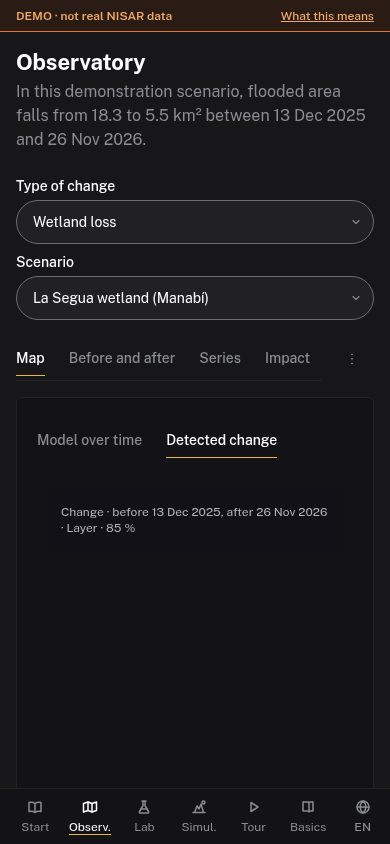
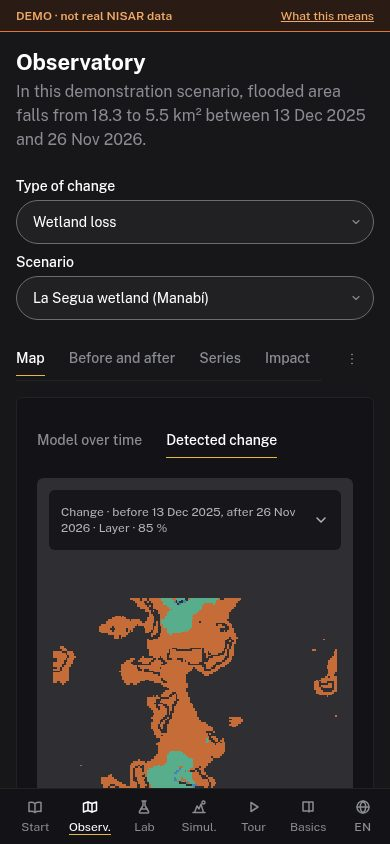
fix(frontend): arreglos de la revisión del bloque visual y móvil

Changed region(s): [[0.0923, 0.5545, 0.9231, 0.955]]

diff --git a/frontend/src/pantallas/observatorio/VistaMapa.tsx b/frontend/src/pantallas/observatorio/VistaMapa.tsx
@@ -8,6 +8,7 @@ import { useMovil } from '../../estado/useMovil'
 import { mensajeDeError } from '../../api/cliente'
 import { useCapa, useFotogramas, useSimular, type CapaDto, type Contexto, type Escenario, type ResultadoCambio } from '../../api/consultas'
 import { Boton } from '../../diseno/Boton'
+import { IconoChevron } from '../../diseno/iconos'
 import { Cargando, ErrorBloque, Vacio } from '../../diseno/Estados'
 import { Leyenda } from '../../diseno/Leyenda'
 import { Pestanas } from '../../diseno/Pestanas'
@@ -176,8 +177,9 @@ export function VistaMapa({ esc, resultado, tiempo, contexto, antesId, despuesId
             <div className="vista-mapa__arriba">
               {movil ? (
                 <div className="vista-mapa__placa">
-                  <button type="button" className="vista-mapa__plegar vista-mapa__placa-boton num" aria-expanded={placaAbierta} aria-controls={idPlaca} onClick={() => setPlacaAbierta((a) => !a)}>
-                    {capa && rotulo ? t('obs.mapa.resumen_capa', { rotulo, pct: Math.round(opacidad * 100) }) : t('obs.mapa.resumen_capa_sola', { pct: Math.round(opacidad * 100) })}
+                  <button type="button" className="vista-mapa__plegar vista-mapa__placa-boton num" aria-expanded={placaAbierta} aria-controls={placaAbierta ? idPlaca : undefined} onClick={() => setPlacaAbierta((a) => !a)}>
+                    <span>{capa && rotulo ? t('obs.mapa.resumen_capa', { rotulo, pct: Math.round(opacidad * 100) }) : t('obs.mapa.resumen_capa_sola', { pct: Math.round(opacidad * 100) })}</span>
+                    <span className="vista-mapa__placa-chevron"><IconoChevron /></span>
                   </button>
                   {placaAbierta && (
                     <div id={idPlaca}>

diff --git a/frontend/src/pantallas/simulador/PanelMundo.tsx b/frontend/src/pantallas/simulador/PanelMundo.tsx
@@ -1,4 +1,3 @@
-import { useEffect, useState } from 'react'
 import type { Catalogo } from '../../api/simulador'
 import { Boton } from '../../diseno/Boton'
 import { Campo } from '../../diseno/Campo'
@@ -7,25 +6,23 @@ import { Selector } from '../../diseno/Selector'
 import { clavesApi } from '../../idioma/clavesApi'
 import { TextoApi } from '../../idioma/TextoApi'
 import { useT } from '../../idioma/useT'
-import type { EstadoSimulador } from './estadoSimulador'
+import { PROPIO, type BorradorMundo, type BorradorMundoEstado } from './useBorradorMundo'
 
-export type BorradorMundo = Pick<EstadoSimulador, 'lat' | 'lon' | 'ext' | 'fecha' | 'dem'>
-const PROPIO = '__propio__'
+export type { BorradorMundo }
 
 interface Props {
   catalogo: Catalogo
-  actual: BorradorMundo
+  /** Borrador y preset, elevados a `Simulador`. */
+  borrador: BorradorMundoEstado
   cargando: boolean
   /** Crea el mundo con el borrador; `herramienta` viene de un mundo predefinido. */
   onCrear: (b: BorradorMundo, herramienta?: string) => void
 }
 
 /** Elección del lugar y de la fecha (temporada); el mundo solo se crea al pulsar el botón. */
-export function PanelMundo({ catalogo, actual, cargando, onCrear }: Props) {
+export function PanelMundo({ catalogo, borrador, cargando, onCrear }: Props) {
   const { t, textoApi } = useT()
-  const [b, setB] = useState<BorradorMundo>(actual)
-  const [preset, setPreset] = useState(() => catalogo.mundos.find((m) => m.lat === actual.lat && m.lon === actual.lon)?.nombre ?? PROPIO)
-  useEffect(() => { setB(actual) }, [actual])
+  const { b, setB, preset, setPreset } = borrador
 
   const elegirPreset = (nombre: string) => {
     setPreset(nombre)

diff --git a/frontend/src/pantallas/simulador/Simulador.tsx b/frontend/src/pantallas/simulador/Simulador.tsx
@@ -21,6 +21,7 @@ import { escribirEstado, leerEstado, sanearParametros, type EstadoSimulador, typ
 import { PanelHerramienta } from './PanelHerramienta'
 import { valoresIniciales } from './valores'
 import { PanelMundo, type BorradorMundo } from './PanelMundo'
+import { useBorradorMundo } from './useBorradorMundo'
 import { Tablero } from './Tablero'
 import { ResultadosEvento } from './ResultadosEvento'
 import { clavesApi } from '../../idioma/clavesApi'
@@ -40,6 +41,8 @@ export default function Simulador() {
     lat: estado.lat, lon: estado.lon, extension_km: estado.ext, fecha: estado.fecha, usar_dem: estado.dem, ciudades: estado.ciudades,
   }), [estado.lat, estado.lon, estado.ext, estado.fecha, estado.dem, estado.ciudades])
   const mundo = useMundo(mundoReq)
+  const actualMundo = useMemo(() => ({ lat: estado.lat, lon: estado.lon, ext: estado.ext, fecha: estado.fecha, dem: estado.dem }), [estado.lat, estado.lon, estado.ext, estado.fecha, estado.dem])
+  const borrador = useBorradorMundo(cat, actualMundo)
 
   const actualizar = (parcial: Partial<EstadoSimulador>, reemplazar = true) =>
     setParams(escribirEstado({ ...estado, ...parcial }), { replace: reemplazar })
@@ -96,7 +99,7 @@ export default function Simulador() {
   const tarjetaMundo = cat && (
     <Tarjeta titulo={t('sim.pantalla.mundo')}>
       <PanelMundo catalogo={cat} cargando={mundo.isFetching} onCrear={crear}
-        actual={{ lat: estado.lat, lon: estado.lon, ext: estado.ext, fecha: estado.fecha, dem: estado.dem }} />
+        borrador={borrador} />
     </Tarjeta>
   )
   return (

diff --git a/frontend/src/pantallas/simulador/simulador-movil.test.tsx b/frontend/src/pantallas/simulador/simulador-movil.test.tsx
@@ -1,5 +1,5 @@
 import { QueryClient, QueryClientProvider } from '@tanstack/react-query'
-import { render, screen } from '@testing-library/react'
+import { act, fireEvent, render, screen } from '@testing-library/react'
 import { MemoryRouter } from 'react-router-dom'
 import { afterEach, describe, expect, it, vi } from 'vitest'
 import type { Catalogo, Herramienta } from '../../api/simulador'
@@ -47,5 +47,21 @@ describe('Simulador · orden en móvil', () => {
     montar()
     const { mundo, tablero } = posicion()
     expect(tablero.compareDocumentPosition(mundo) & Node.DOCUMENT_POSITION_FOLLOWING).toBeTruthy()
+  })
+})
+
+describe('Simulador · borrador del mundo', () => {
+  it('al cruzar 700 px (cambia el orden y se remonta PanelMundo) el borrador sobrevive', () => {
+    const oyentes = new Set<() => void>()
+    let movil = false
+    vi.stubGlobal('matchMedia', (q: string) => ({
+      get matches() { return movil }, media: q,
+      addEventListener: (_: string, f: () => void) => oyentes.add(f), removeEventListener: (_: string, f: () => void) => oyentes.delete(f),
+    }))
+    montar()
+    fireEvent.change(screen.getByLabelText('Latitud'), { target: { value: '-1.23' } })
+    expect(screen.getByLabelText('Latitud')).toHaveValue(-1.23)
+    act(() => { movil = true; oyentes.forEach((f) => f()) })
+    expect(screen.getByLabelText('Latitud')).toHaveValue(-1.23)
   })
 })

diff --git a/frontend/src/pantallas/simulador/simulador-idioma.test.tsx b/frontend/src/pantallas/simulador/simulador-idioma.test.tsx
@@ -13,6 +13,7 @@ import { PanelHerramienta } from './PanelHerramienta'
 import { PanelMundo } from './PanelMundo'
 import { ResultadosEvento } from './ResultadosEvento'
 import { Tablero } from './Tablero'
+import { useBorradorMundo } from './useBorradorMundo'
 import { valoresIniciales } from './valores'
 import { traductor } from '../../idioma/traductor'
 
@@ -38,6 +39,12 @@ const CATALOGO = {
 
 const MUNDO_MARCAS = { ...MUNDO, marcas: [{ x: 0.2, y: 0.5, texto: 'Loja', tipo: 'ciudad' }, { x: 0.8, y: 0.2, texto: 'Cotopaxi', tipo: 'volcan' }] } as unknown as MundoDto
 
+const ACTUAL_MUNDO = { lat: -4.05, lon: -79.25, ext: 30, fecha: '2026-08-15', dem: true }
+function ConBorrador() {
+  const borrador = useBorradorMundo(CATALOGO, ACTUAL_MUNDO)
+  return <PanelMundo catalogo={CATALOGO} cargando={false} onCrear={() => {}} borrador={borrador} />
+}
+
 beforeEach(() => localStorage.clear())
 
 describe('simulador · idioma', () => {
@@ -53,7 +60,7 @@ describe('simulador · idioma', () => {
 
   it('el panel del mundo no deja texto sin traducir', () => {
     const { container } = renderPseudo(
-      <PanelMundo catalogo={CATALOGO} cargando={false} onCrear={() => {}} actual={{ lat: -4.05, lon: -79.25, ext: 30, fecha: '2026-08-15', dem: true }} />,
+      <ConBorrador />,
     )
     expect(textosSinTraducir(container)).toEqual([])
   })

diff --git a/frontend/src/diseno/MenuAcciones.tsx b/frontend/src/diseno/MenuAcciones.tsx
@@ -5,7 +5,6 @@ export interface AccionMenu {
   id: string
   texto: string
   alElegir: () => void
-  presionada?: boolean
 }
 
 interface Props {
@@ -27,11 +26,11 @@ export function MenuAcciones({ etiqueta, acciones }: Props) {
   useEffect(() => {
     if (!abierto) return
     lista.current?.querySelector<HTMLElement>('[role="menuitem"]')?.focus()
-    const fuera = (e: MouseEvent) => {
+    const fuera = (e: PointerEvent) => {
       if (raiz.current && !raiz.current.contains(e.target as Node)) setAbierto(false)
     }
-    document.addEventListener('mousedown', fuera)
-    return () => document.removeEventListener('mousedown', fuera)
+    document.addEventListener('pointerdown', fuera)
+    return () => document.removeEventListener('pointerdown', fuera)
   }, [abierto])
 
   const alTeclear = (e: KeyboardEvent) => {
@@ -78,7 +77,6 @@ export function MenuAcciones({ etiqueta, acciones }: Props) {
               type="button"
               role="menuitem"
               className="menu-acciones__item"
-              aria-pressed={a.presionada}
               onClick={() => elegir(a)}
             >
               {a.texto}

diff --git a/frontend/src/pantallas/observatorio/panel.test.tsx b/frontend/src/pantallas/observatorio/panel.test.tsx
@@ -230,6 +230,20 @@ describe('PanelSimulacion', () => {
     expect(screen.getByRole('menuitem', { name: 'Ver el escenario' })).toBeInTheDocument()
   })
 
+  it('sin capacidad de simulación el menú no ofrece «Parámetros del modelo»', async () => {
+    movilSim()
+    montar('/observatorio?escenario=ec_x')
+    await screen.findByText(/Cinta de pasadas/)
+    fireEvent.click(await screen.findByRole('button', { name: 'Más acciones' }))
+    expect(screen.getByRole('menuitem', { name: 'Parámetros del modelo' })).toBeInTheDocument()
+    cleanup()
+    montar('/observatorio?escenario=ec_real')
+    await screen.findByText(/Cinta de pasadas/)
+    fireEvent.click(await screen.findByRole('button', { name: 'Más acciones' }))
+    expect(screen.queryByRole('menuitem', { name: 'Parámetros del modelo' })).not.toBeInTheDocument()
+    expect(screen.getByRole('menuitem', { name: 'Ver todo Ecuador' })).not.toHaveAttribute('aria-pressed')
+  })
+
   it('en escritorio no hay menú y los botones siguen en la barra del mapa', async () => {
     montar('/observatorio?escenario=ec_x')
     await screen.findByText(/Cinta de pasadas/)

diff --git a/frontend/src/pantallas/observatorio/observatorio.css b/frontend/src/pantallas/observatorio/observatorio.css
@@ -61,7 +61,9 @@
   .vista-mapa__arriba { flex-direction: column; align-items: stretch; }
   .vista-mapa__capa { max-width: 100%; }
   .vista-mapa__placa { padding: var(--space-2) var(--space-3); display: flex; flex-direction: column; gap: var(--space-2); color: var(--secondary); font-size: var(--fs-12); line-height: var(--lh-16); }
-  .vista-mapa__placa-boton { text-align: left; text-decoration: none; color: inherit; min-height: var(--h-touch); }
+  .vista-mapa__placa-boton { display: flex; justify-content: space-between; align-items: center; gap: var(--space-2); width: 100%; text-align: left; text-decoration: none; color: inherit; min-height: var(--h-touch); }
+  .vista-mapa__placa-chevron { flex: none; display: inline-flex; transition: transform var(--t-respuesta) ease-out; }
+  .vista-mapa__placa-boton[aria-expanded="true"] .vista-mapa__placa-chevron { transform: rotate(180deg); }
   .vista-mapa__placa .controles-mapa { width: 100%; padding: 0; background: none; }
   .vista-mapa__leyenda { margin-bottom: var(--space-8); }
 }

diff --git a/frontend/src/diseno/componentes.css b/frontend/src/diseno/componentes.css
@@ -338,7 +338,7 @@ html { scroll-padding-top: var(--h-banda); scroll-padding-bottom: var(--space-4)
 .menu-acciones__boton { min-height: var(--h-touch); min-width: var(--h-touch); }
 .menu-acciones__lista {
   position: absolute; right: 0; top: 100%; margin-top: var(--space-1); z-index: 20;
-  min-width: var(--w-panel-idioma); display: flex; flex-direction: column;
+  min-width: var(--w-menu-acciones); display: flex; flex-direction: column;
   background: var(--raised); border: 1px solid var(--control); border-radius: var(--radius-card);
   box-shadow: var(--shadow-float); padding: var(--space-1);
 }
@@ -347,4 +347,4 @@ html { scroll-padding-top: var(--h-banda); scroll-padding-bottom: var(--space-4)
   font: inherit; font-size: var(--fs-14); color: var(--text); background: transparent; border: 0;
   border-radius: var(--radius-chip); cursor: pointer;
 }
-.menu-acciones__item:hover, .menu-acciones__item[aria-pressed="true"] { background: var(--control); }
+.menu-acciones__item:hover { background: var(--control); }

diff --git a/frontend/src/pantallas/observatorio/observatorio.test.tsx b/frontend/src/pantallas/observatorio/observatorio.test.tsx
@@ -364,11 +364,15 @@ describe('Observatorio · placa del mapa', () => {
     await screen.findByTestId('mapa-falso')
     const boton = await screen.findByRole('button', { name: /Cambio · antes .* · Capa · 85 %/ })
     expect(boton).toHaveAttribute('aria-expanded', 'false')
+    expect(boton).not.toHaveAttribute('aria-controls')
+    expect(boton.querySelector('svg')).not.toBeNull() // chevron: la placa parece pulsable
     expect(document.querySelectorAll('.vista-mapa__arriba .vista-mapa__placa')).toHaveLength(1)
     expect(screen.queryByRole('slider', { name: /Opacidad/ })).not.toBeInTheDocument()
     expect(screen.queryByRole('tab', { name: 'Satélite' })).not.toBeInTheDocument()
     fireEvent.click(boton)
     expect(boton).toHaveAttribute('aria-expanded', 'true')
+    expect(boton.getAttribute('aria-controls')).toBeTruthy()
+    expect(document.getElementById(boton.getAttribute('aria-controls')!)).not.toBeNull()
     expect(screen.getByRole('slider', { name: /Opacidad/ })).toBeInTheDocument()
   })
 

diff --git a/frontend/src/pantallas/simulador/useBorradorMundo.ts b/frontend/src/pantallas/simulador/useBorradorMundo.ts
@@ -1,0 +1,18 @@
+import { useEffect, useState } from 'react'
+import type { Catalogo } from '../../api/simulador'
+import type { EstadoSimulador } from './estadoSimulador'
+
+export type BorradorMundo = Pick<EstadoSimulador, 'lat' | 'lon' | 'ext' | 'fecha' | 'dem'>
+export const PROPIO = '__propio__'
+
+/**
+ * Borrador del mundo y preset elegido. Vive en `Simulador` (no en `PanelMundo`) para que sobreviva
+ * al cambio de orden en móvil, que desmonta y vuelve a montar la tarjeta.
+ */
+export function useBorradorMundo(catalogo: Catalogo | undefined, actual: BorradorMundo) {
+  const [b, setB] = useState<BorradorMundo>(actual)
+  const [preset, setPreset] = useState(() => catalogo?.mundos.find((m) => m.lat === actual.lat && m.lon === actual.lon)?.nombre ?? PROPIO)
+  useEffect(() => { setB(actual) }, [actual])
+  return { b, setB, preset, setPreset }
+}
+export type BorradorMundoEstado = ReturnType<typeof useBorradorMundo>

diff --git a/frontend/src/pantallas/observatorio/Observatorio.tsx b/frontend/src/pantallas/observatorio/Observatorio.tsx
@@ -227,7 +227,7 @@ function ObservatorioCargado({ esc }: { esc: Escenario }) {
   const vista = url.vista === 'impacto' && !esc.historia ? 'mapa' : url.vista
   const acciones: AccionMenu[] = []
   if (puedeSimular) acciones.push({ id: 'parametros', texto: t('obs.parametros.titulo'), alElegir: () => setHoja(true) })
-  if (vista === 'mapa') acciones.push({ id: 'pais', texto: pais ? t('obs.mapa.ver_escenario') : t('obs.mapa.ver_todo'), alElegir: () => setPais((p) => !p), presionada: pais })
+  if (vista === 'mapa') acciones.push({ id: 'pais', texto: pais ? t('obs.mapa.ver_escenario') : t('obs.mapa.ver_todo'), alElegir: () => setPais((p) => !p) })
   return (
     <>
       <CabeceraPantalla titulo={t('obs.estructura.titulo')} hallazgo={texto} acciones={selectores} />
